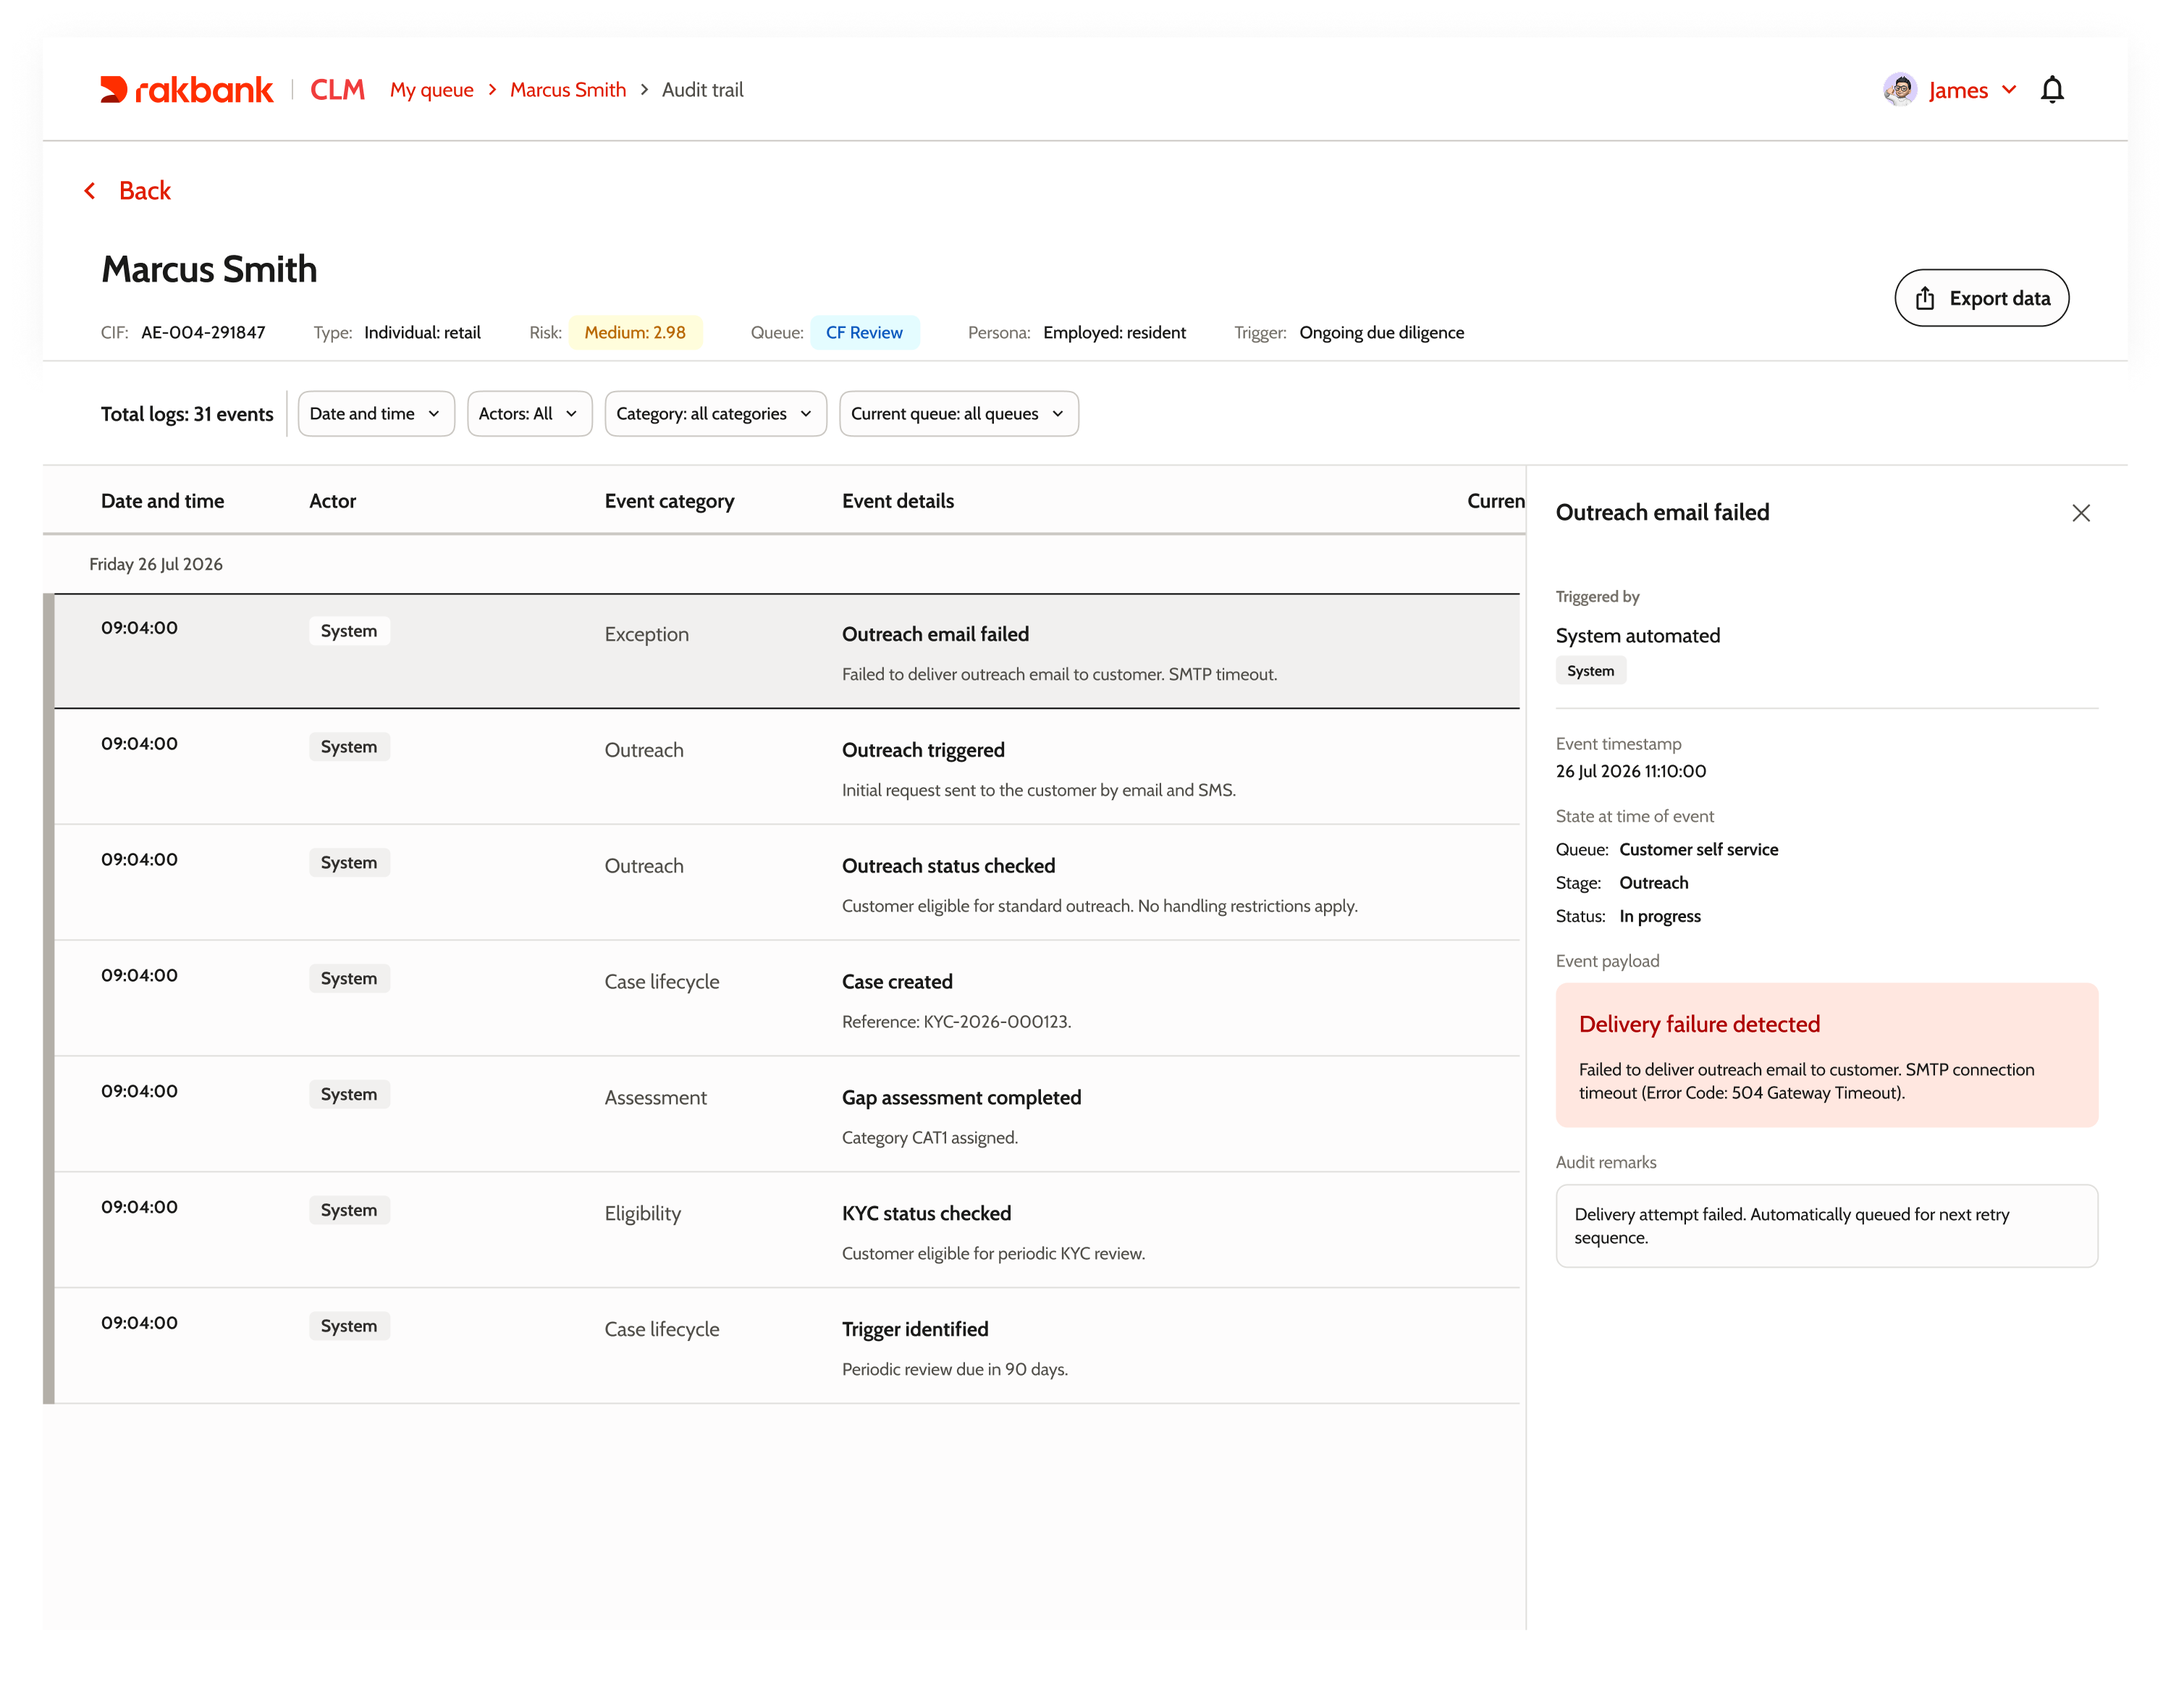
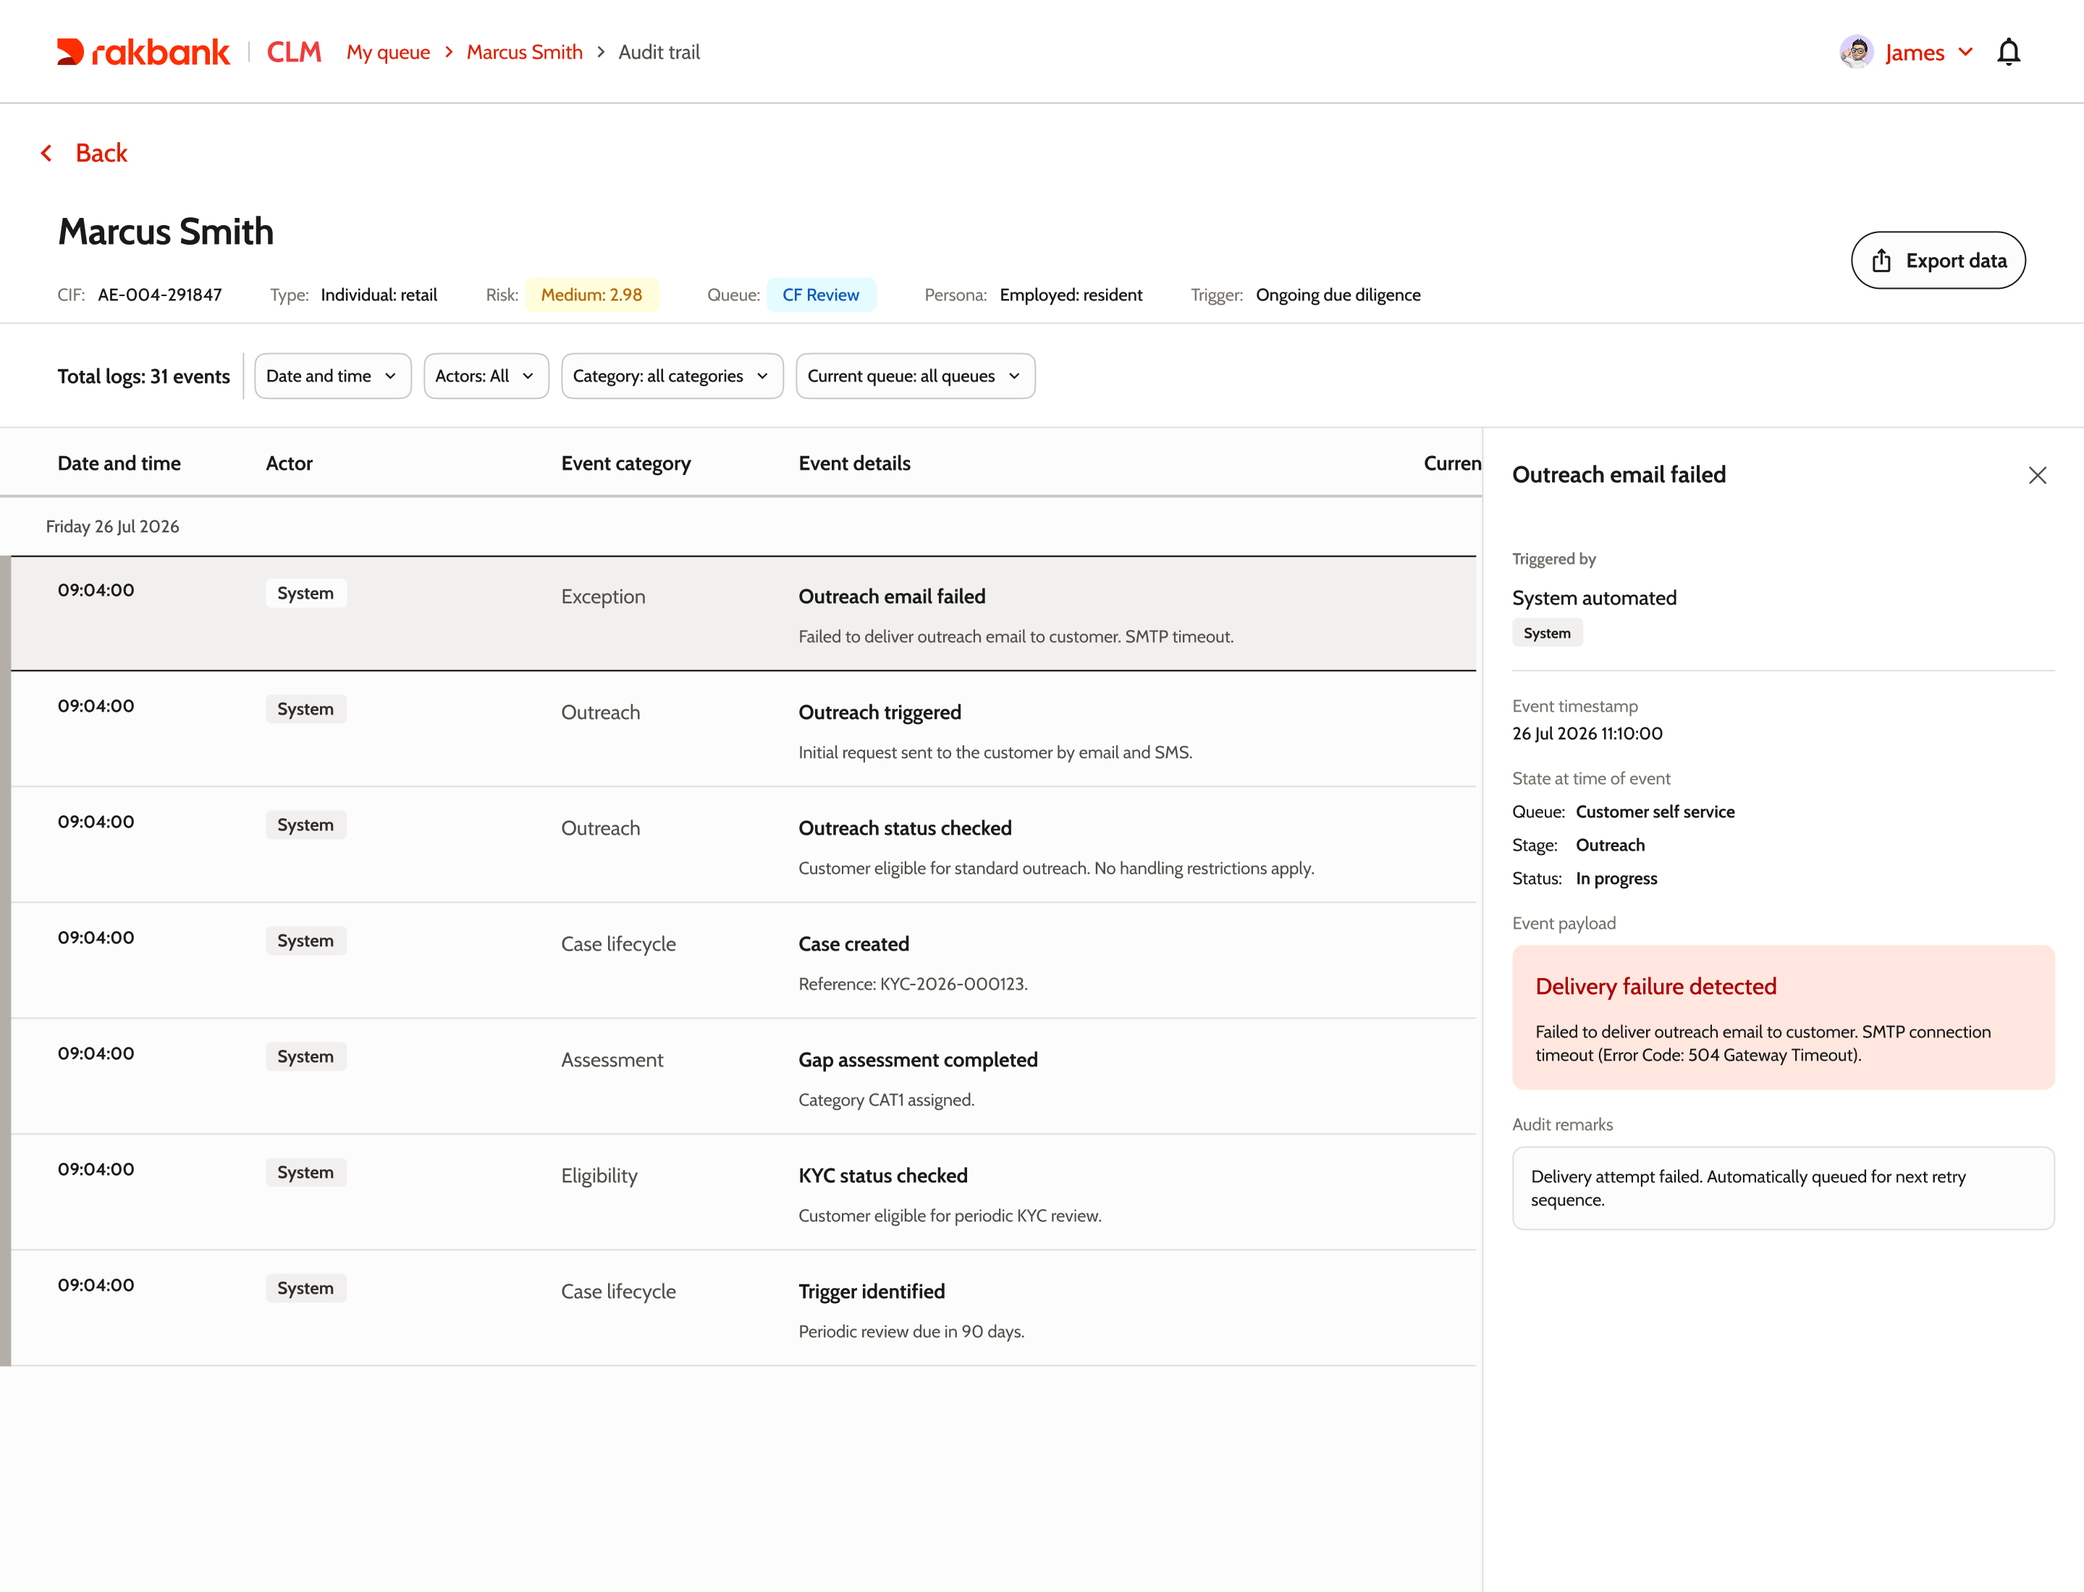
Unify CLM case study screenshot strokes (#183)
Crop baked drop shadows off four re-exported audit trail screenshots so all five match clm-audit-risk, add the missing hairline ring to the queue/exception pair, bump cache tags, and refresh two stale alt texts. EN and RU.

diff --git a/case-rakbank-ru.html b/case-rakbank-ru.html
@@ -95,11 +95,11 @@
           </div>
           <p class="n-up">Откройте любое событие — и получите те же четыре ответа: кто это сделал, как выглядело дело в тот самый момент, что изменилось и какую причину указали. Именно этот снимок момента волнует аудиторов больше всего: не как дело выглядит сейчас, а что видел аналитик, когда принимал решение.</p>
           <div class="n-img-block n-img-block--flush n-img-block--ring n-up">
-            <img src="assets/clm-audit-approve.png?v=5" alt="Открытое событие: одобрение дела названным комплаенс-офицером, с состоянием на тот момент, изменениями и указанной причиной" />
+            <img src="assets/clm-audit-approve.png?v=7" alt="Открытое событие: одобрение дела названным комплаенс-офицером, с состоянием на тот момент, изменениями и указанной причиной" />
           </div>
           <p class="n-up">Чем весомее решение, тем богаче запись. Здесь офицер повышает риск-оценку с 2,85 до 4,35 — событие сохраняет старую оценку, новую, скачок уровня с низкого на высокий и причину произошедшего.</p>
           <div class="n-img-block n-img-block--flush n-img-block--ring n-up">
-            <img src="assets/clm-audit-risk.png?v=3" alt="Событие обновления риск-оценки: старая оценка 2,85, новая 4,35, уровень риска повышен с низкого до высокого, с комментарием о причине эскалации" />
+            <img src="assets/clm-audit-risk.png?v=4" alt="Событие обновления риск-оценки: старая оценка 2,85, новая 4,35, уровень риска повышен с низкого до высокого, с комментарием о причине эскалации" />
           </div>
         </div>
 
@@ -109,16 +109,16 @@
           <h2 class="n-title n-up">След остаётся от всего — даже от сбоев</h2>
           <p class="n-up">Дело формируют не только аналитики. Система перемещает его между очередями. Письма клиентам не доставляются и уходят на повтор. Клиент сам редактирует профиль через портал. След записывает всё это одинаково — потому что для аудитора недоставленное письмо значит не меньше, чем одобрение.</p>
           <div class="n-img-pair n-up">
-            <div class="n-img-block n-img-block--flush">
-              <img src="assets/clm-audit-queue.png?v=4" alt="Системное событие: дело автоматически перемещено между очередями, с состоянием до и после" />
+            <div class="n-img-block n-img-block--flush n-img-block--ring">
+              <img src="assets/clm-audit-queue.png?v=6" alt="Системное событие: дело автоматически перемещено между очередями, с состоянием до и после" />
             </div>
-            <div class="n-img-block n-img-block--flush">
-              <img src="assets/clm-audit-exception.png?v=4" alt="Событие сбоя: недоставленное письмо клиенту, с ошибкой, запланированным повтором и флагом «не разрешено»" />
+            <div class="n-img-block n-img-block--flush n-img-block--ring">
+              <img src="assets/clm-audit-exception.png?v=6" alt="Событие сбоя: недоставленное письмо клиенту, с ошибкой SMTP и автоматически поставленным повтором" />
             </div>
           </div>
           <p class="n-up">Когда клиент обновляет свои данные, след показывает каждое поле до и после, с пометкой значимых для риска.</p>
           <div class="n-img-block n-img-block--flush n-img-block--ring n-up">
-            <img src="assets/clm-audit-details.png?v=4" alt="Событие клиента: данные профиля обновлены через портал, с видом «до и после» по всем 12 изменённым полям" />
+            <img src="assets/clm-audit-details.png?v=6" alt="Событие клиента: данные профиля обновлены через портал, с видом «до и после» по изменённым полям" />
           </div>
         </div>
 

diff --git a/case-rakbank.html b/case-rakbank.html
@@ -95,11 +95,11 @@
           </div>
           <p class="n-up">Open any event and you get the same four answers: who did it, what the case looked like at that exact moment, what changed, and the reason they gave. That snapshot of the moment is what auditors care about most — not what the case looks like now, but what the reviewer could see when they made the call.</p>
           <div class="n-img-block n-img-block--flush n-img-block--ring n-up">
-            <img src="assets/clm-audit-approve.png?v=5" alt="An event opened: a case approval by a named compliance officer, with the state at that moment, what changed, and the reason given" />
+            <img src="assets/clm-audit-approve.png?v=7" alt="An event opened: a case approval by a named compliance officer, with the state at that moment, what changed, and the reason given" />
           </div>
           <p class="n-up">The heavier the decision, the richer the record. Here the officer raises the risk score from 2.85 to 4.35 — the event keeps the old score, the new one, the tier jump from low to high, and why it happened.</p>
           <div class="n-img-block n-img-block--flush n-img-block--ring n-up">
-            <img src="assets/clm-audit-risk.png?v=3" alt="A risk score update event: old score 2.85, new score 4.35, risk tier escalated from low to high, with the remark explaining the escalation" />
+            <img src="assets/clm-audit-risk.png?v=4" alt="A risk score update event: old score 2.85, new score 4.35, risk tier escalated from low to high, with the remark explaining the escalation" />
           </div>
         </div>
 
@@ -109,16 +109,16 @@
           <h2 class="n-title n-up">Everything leaves a trace — even the failures</h2>
           <p class="n-up">A case isn't shaped only by reviewers. The system moves it between queues. Outreach emails fail and get retried. The customer edits their own profile through the portal. The trail records all of it the same way — because to an auditor, a failed email matters as much as an approval.</p>
           <div class="n-img-pair n-up">
-            <div class="n-img-block n-img-block--flush">
-              <img src="assets/clm-audit-queue.png?v=4" alt="A system event: the case moved between queues automatically, with the state before and after" />
+            <div class="n-img-block n-img-block--flush n-img-block--ring">
+              <img src="assets/clm-audit-queue.png?v=6" alt="A system event: the case moved between queues automatically, with the state before and after" />
             </div>
-            <div class="n-img-block n-img-block--flush">
-              <img src="assets/clm-audit-exception.png?v=4" alt="A failure event: an outreach email that didn't deliver, with the error, the scheduled retry, and an unresolved flag" />
+            <div class="n-img-block n-img-block--flush n-img-block--ring">
+              <img src="assets/clm-audit-exception.png?v=6" alt="A failure event: an outreach email that didn't deliver, with the SMTP error and the automatic retry it was queued for" />
             </div>
           </div>
           <p class="n-up">When the customer updates their details, the trail shows every field, before and after, with the ones that matter for risk flagged.</p>
           <div class="n-img-block n-img-block--flush n-img-block--ring n-up">
-            <img src="assets/clm-audit-details.png?v=4" alt="A customer event: profile details updated through the portal, with a before-and-after view of all 12 changed fields" />
+            <img src="assets/clm-audit-details.png?v=6" alt="A customer event: profile details updated through the portal, with a before-and-after view of the changed fields" />
           </div>
         </div>
 
